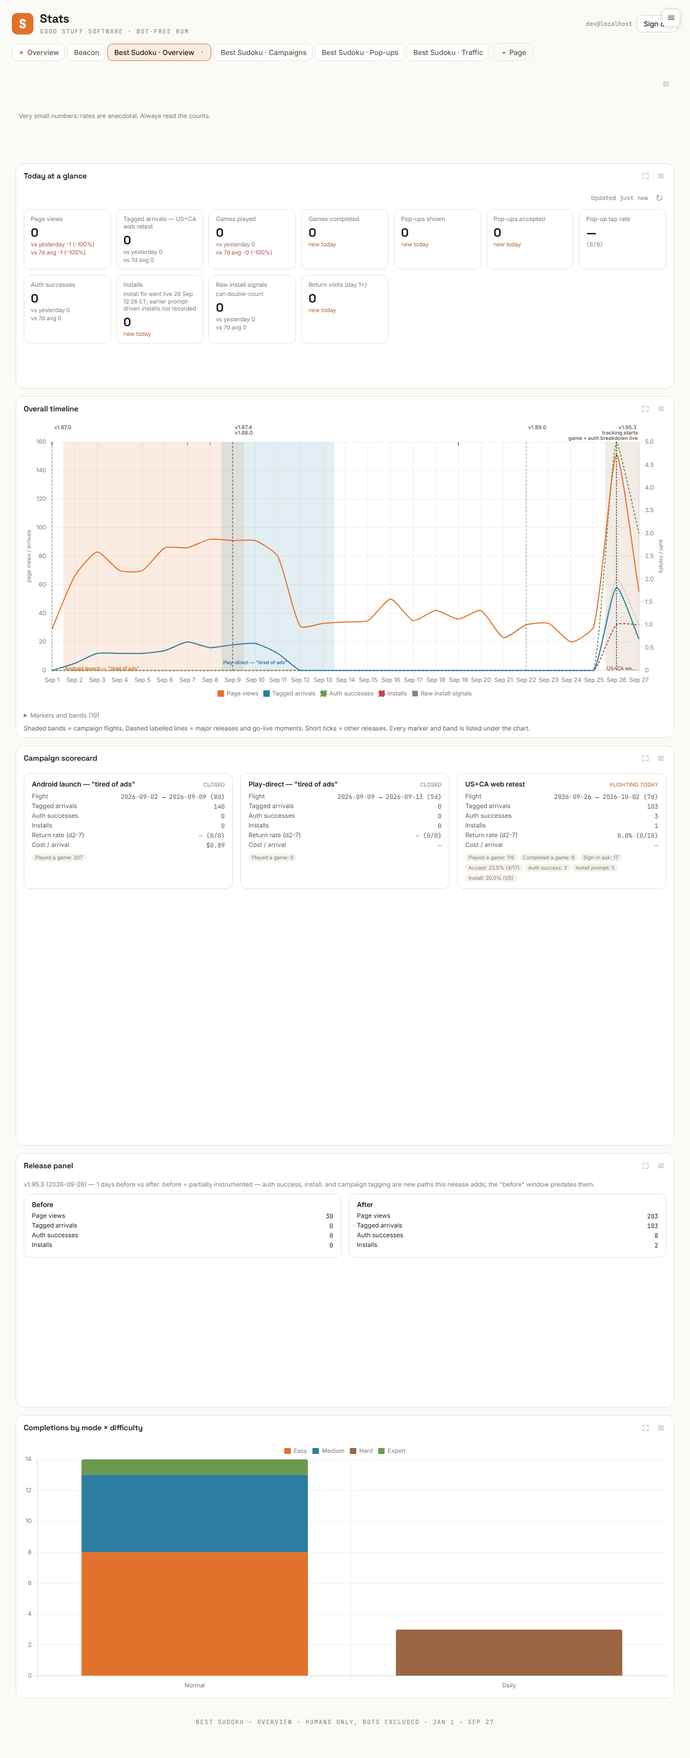
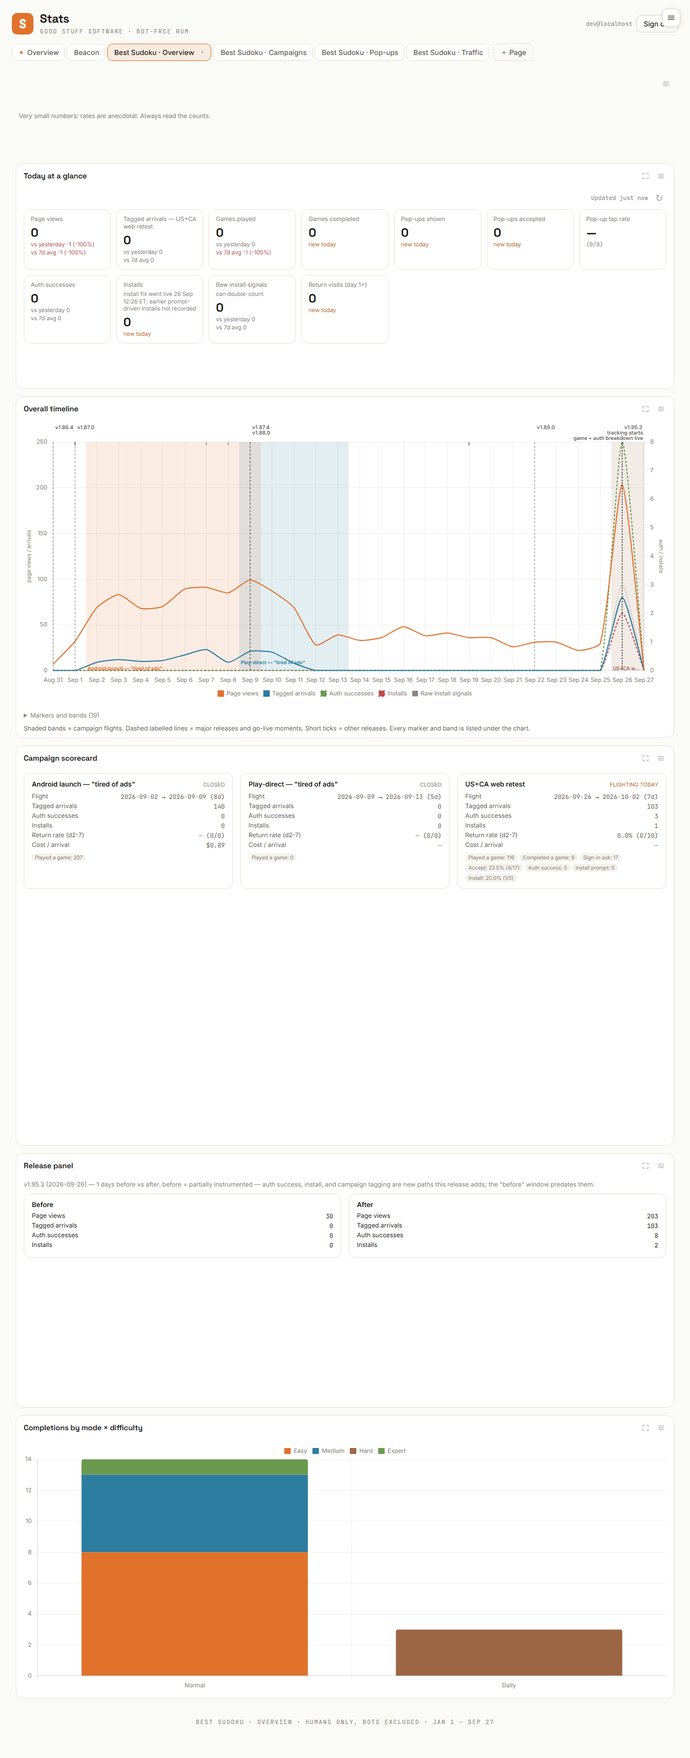
feat(geo): add a US-Eastern date axis; align editor checkboxes
- New geo dimension 'dateEt' ("Date (trend, ET)"). It buckets each row by
  its ET calendar day in SQL (etTime.ts etDateSql): the same DST rule as
  etDateFast, with the EDT windows for 2024-2040 inlined as integer
  constants. Like 'date', it is a trend bucket: the sole dimension,
  zero-filled over the range's ET days, never a ring or a filter (a shared
  isDateDim helper covers both). The Overall timeline (and the v9 swap) use
  it, so its days line up with its ET-dated flight bands and go-live
  markers. Tested against etDateFast and etDateFromMs at the ET/UTC day
  edge (EDT and EST) and hour by hour across both 2026 DST transition days.
- Chart editor: checkboxes keep their own size, directly left of the label
  text, with the whole label as the click target. The generic
  '.field input { width: 100% }' rule had stretched them.

diff --git a/src/lib/charts.ts b/src/lib/charts.ts
@@ -1,7 +1,8 @@
 import type { ChartConfiguration } from 'chart.js'
 import type { Widget, StatsResponse, StatsRow, Metric } from '../types'
 import { COUNTRY_NAMES } from './catalog'
-import { ringDims } from './rings'
+import { ringDims, isDateDim } from './rings'
+import { etDateFast } from './etTime'
 import { TRACKING_ACTIVATION_DATE_ET, PLAY_TRACKING_MARKER_LABEL, POPUPS, POPUP_FAMILY_ORDER, POPUP_OUTCOME_ORDER, POPUP_OUTCOME_LABELS } from './popupEvents'
 import { GAME_COMPLETE_MODES, GAME_COMPLETE_DIFFICULTIES, CAMPAIGNS } from './campaigns'
 import { isMobileViewport } from './responsive'
@@ -435,7 +436,7 @@ function wrapText(ctx: any, text: string, maxW: number): string[] {
 
 /** True for a line/area chart on the beacon's date axis that draws its own series list. */
 export function hasLineSeries(widget: Pick<Widget, 'type' | 'dataset' | 'dimension' | 'series'>): boolean {
-  return (widget.type === 'line' || widget.type === 'area') && widget.dataset === 'geo' && widget.dimension === 'date' && !!widget.series?.length
+  return (widget.type === 'line' || widget.type === 'area') && widget.dataset === 'geo' && isDateDim(widget.dimension) && !!widget.series?.length
 }
 
 /** A line chart's series (Widget.series): each one is its own date query, filtered on a geo
@@ -445,8 +446,9 @@ export function buildSeriesLineConfig(widget: Widget, responses: StatsResponse[]
   const series = widget.series ?? []
   if (!series.length || responses.length !== series.length) return null
   const first = responses[0]
-  const allDays = dayBucketsInRange(first.meta.since, first.meta.until) ?? [...new Set(responses.flatMap((r) => r.rows.map((x) => x.key.date ?? '')))].sort()
-  const byDay = responses.map((r) => new Map(r.rows.map((x) => [x.key.date ?? '', metricValue(x, widget.metric)])))
+  const dim = widget.dimension
+  const allDays = dayBucketsInRange(first.meta.since, first.meta.until, dim === 'dateEt') ?? [...new Set(responses.flatMap((r) => r.rows.map((x) => x.key[dim] ?? '')))].sort()
+  const byDay = responses.map((r) => new Map(r.rows.map((x) => [x.key[dim] ?? '', metricValue(x, widget.metric)])))
   // The axis starts at the first day any series has data (a long range, e.g. "since January",
   // would otherwise open with months of flat zeros); every later empty day still plots as 0.
   const firstData = allDays.findIndex((d) => byDay.some((m) => (m.get(d) ?? 0) > 0))
@@ -622,7 +624,7 @@ export function formatKey(dimension: string, value: string): string {
   if (dimension === 'popupFamily') return POPUPS.find((p) => p.id === value)?.label ?? value
   if (dimension === 'popupOutcome') return POPUP_OUTCOME_LABELS[value] ?? value
   if (dimension === 'campaignFlight') return CAMPAIGNS.find((c) => c.id === value)?.label ?? value
-  if (dimension === 'date') {
+  if (dimension === 'date' || dimension === 'dateEt') {
     // YYYY-MM-DD → "Jun 24"
     const d = new Date(value + 'T00:00:00Z')
     return d.toLocaleDateString('en-US', { month: 'short', day: 'numeric', timeZone: 'UTC' })
@@ -658,12 +660,14 @@ const noLegend = { legend: { display: false } }
 // the span is implausibly huge — a malformed or enormous range shouldn't allocate thousands of
 // empty buckets, and callers fall back to the pre-fill behavior in that case.
 const MAX_FILL_DAYS = 400
-function dayBucketsInRange(since: string, until: string): string[] | null {
-  const s = new Date(since).getTime()
-  const u = new Date(until).getTime()
-  if (!isFinite(s) || !isFinite(u)) return null
-  const startDay = Date.UTC(new Date(s).getUTCFullYear(), new Date(s).getUTCMonth(), new Date(s).getUTCDate())
-  const endDay = Date.UTC(new Date(u).getUTCFullYear(), new Date(u).getUTCMonth(), new Date(u).getUTCDate())
+function dayBucketsInRange(since: string, until: string, et = false): string[] | null {
+  const s0 = new Date(since).getTime()
+  const u0 = new Date(until).getTime()
+  if (!isFinite(s0) || !isFinite(u0)) return null
+  // An ET-day axis ('dateEt') spans the ET days of since/until; a UTC one their UTC days.
+  const dayOf = (ms: number) => (et ? etDateFast(ms) : new Date(ms).toISOString().slice(0, 10))
+  const startDay = Date.parse(dayOf(s0) + 'T00:00:00Z')
+  const endDay = Date.parse(dayOf(u0) + 'T00:00:00Z')
   if (endDay < startDay) return null
   const dayCount = Math.round((endDay - startDay) / 86_400_000) + 1
   if (dayCount > MAX_FILL_DAYS) return null
@@ -679,11 +683,11 @@ function dayBucketsInRange(since: string, until: string): string[] | null {
 // have more points than the response has rows, and indexing the raw rows would drill into the
 // wrong day (or miss entirely).
 export function seriesRows(dim: string, resp: StatsResponse): StatsRow[] {
-  if (dim !== 'date') return resp.rows
-  const buckets = dayBucketsInRange(resp.meta.since, resp.meta.until)
+  if (!isDateDim(dim)) return resp.rows
+  const buckets = dayBucketsInRange(resp.meta.since, resp.meta.until, dim === 'dateEt')
   if (!buckets) return resp.rows
-  const byDay = new Map(resp.rows.map((r) => [r.key.date ?? '', r]))
-  return buckets.map((day) => byDay.get(day) ?? { key: { date: day }, pageviews: 0, visits: 0 })
+  const byDay = new Map(resp.rows.map((r) => [r.key[dim] ?? '', r]))
+  return buckets.map((day) => byDay.get(day) ?? { key: { [dim]: day }, pageviews: 0, visits: 0 })
 }
 
 // Known value order for a dimension's values, wherever one reads better than count order: the
@@ -899,7 +903,7 @@ export function buildChartConfig(widget: Widget, resp: StatsResponse, seriesResp
     // with a corner watermark instead — see activationMarkerIndex above).
     const isPopupTrend = widget.dataset === 'popup' && dim === 'date'
     const boundary = isPopupTrend ? (TRACKING_ACTIVATION_DATE_ET ? activationMarkerIndex(rows, TRACKING_ACTIVATION_DATE_ET) : rows.length) : -1
-    const overlay = dim === 'date' ? overlayItems(widgetOverlayOptions(widget)) : []
+    const overlay = isDateDim(dim) ? overlayItems(widgetOverlayOptions(widget)) : []
     const muted = isDark() ? 'rgba(231,226,215,0.35)' : 'rgba(26,23,21,0.28)'
     const mutedFill = isDark() ? 'rgba(231,226,215,0.08)' : 'rgba(26,23,21,0.06)'
 
@@ -943,7 +947,7 @@ export function buildChartConfig(widget: Widget, resp: StatsResponse, seriesResp
       ...((isPopupTrend || overlay.length) && {
         plugins: [
           ...(isPopupTrend ? [TRACKING_ACTIVATION_DATE_ET ? activationMarkerPlugin(boundary) : notYetTrackedWatermarkPlugin()] : []),
-          ...(overlay.length ? [timelineOverlayPlugin(rows.map((r) => r.key.date ?? ''), overlay, isMobileViewport())] : []),
+          ...(overlay.length ? [timelineOverlayPlugin(rows.map((r) => r.key[dim] ?? ''), overlay, isMobileViewport())] : []),
         ],
       }),
     } as ChartConfiguration

diff --git a/functions/api/geo.ts b/functions/api/geo.ts
@@ -15,6 +15,8 @@
 import { popupExcludeClause, pathFamilySqlCase, popupDimSqlCase, popupDimPrefilter } from '../../src/lib/popupEvents'
 import { gameDimSqlCase, gameDimPrefilter, campaignFlightSqlCase, campaignFlightPrefilter, arrivalSqlCase, keyEventSqlCase, applyExclusions } from '../../src/lib/campaigns'
 import { excludeOwnClause as sharedExcludeOwnClause, selfReferralClause as sharedSelfReferralClause } from '../../src/lib/ownExclusion'
+import { etDateSql } from '../../src/lib/etTime'
+import { isDateDim } from '../../src/lib/rings'
 import { buildCacheKeyUrl, cachedJson, ttlSecondsFor, type CacheLike } from '../_lib/edgeCache'
 
 interface Env {
@@ -42,6 +44,8 @@ interface Env {
 // blank-labeled the same way they always were.
 export function breakdownColumnExpr(dim: string, emptyLabel: string): string {
   if (dim === 'date') return "date(ts/1000,'unixepoch')"
+  // US-Eastern calendar day (DST-aware), matching how the Best Sudoku code buckets ET days.
+  if (dim === 'dateEt') return etDateSql()
   if (dim === 'pathFamily') return pathFamilySqlCase()
   // Pop-up / completion / campaign-flight dims: CASE expressions over path (and ts/campaign),
   // built only from lib/popupEvents.ts + lib/campaigns.ts constants (never request input); see
@@ -118,7 +122,7 @@ export function buildMergedRingSql(cols: string[], whereSql: string, groupBy: st
 // every query that touched it the moment someone charted it. Add it once the migration runs).
 export const GEO_DIMS = new Set([
   'country', 'region', 'city', 'postal', 'continent', 'timezone', 'colo', 'org',
-  'referrer', 'refpath', 'path', 'site', 'device', 'browser', 'os', 'lang', 'visitor', 'date',
+  'referrer', 'refpath', 'path', 'site', 'device', 'browser', 'os', 'lang', 'visitor', 'date', 'dateEt',
   'campaign', 'source', 'medium', // utm campaign tags
   'screenw', 'screenwBucket', // viewport width — raw pixel value, and bucketed (see breakdownColumnExpr)
   'pathFamily', // groups event-beacon paths (popup/install/return/game-complete/…) vs. 'page' — see popupEvents.ts
@@ -137,12 +141,12 @@ export const GEO_DIMS = new Set([
 // equality instead of a bare column reference. 'date' alone stays fully out of filtering too:
 // a click on a date bucket becomes a day RANGE client-side (lib/drill.ts), never an equality
 // constraint, so nothing ever sends it as one.
-export const DERIVED_ONLY_DIMS = new Set(['date', 'screenwBucket', 'pathFamily', 'popupFamily', 'popupOutcome', 'gameMode', 'gameDifficulty', 'campaignFlight', 'arrival', 'keyEvent'])
+export const DERIVED_ONLY_DIMS = new Set(['date', 'dateEt', 'screenwBucket', 'pathFamily', 'popupFamily', 'popupOutcome', 'gameMode', 'gameDifficulty', 'campaignFlight', 'arrival', 'keyEvent'])
 // Of those, only 'date' stays out of multi-dimension (ring / breakdown-bar) queries: every other
 // derived dim groups like a column (its CASE runs per row in the inner SELECT, and
 // ringBlankExclusion drops its blank rows). A date axis is a trend, which lib/rings.ts
 // queryDims already keeps to single-dim charts.
-export const RING_EXCLUDED_DIMS = new Set(['date'])
+export const RING_EXCLUDED_DIMS = new Set(['date', 'dateEt'])
 
 // Dimensions that describe EVENT-beacon rows only. A chart grouping by one (or a drill filtering
 // on one) cannot also apply the standing event-beacon exclusion (it would remove every row the
@@ -232,7 +236,7 @@ export const onRequestPost: PagesFunction<Env> = async (ctx) => {
   // never arrives as one — excluding it is defense in depth, not something a real client sends.
   const constraints: { field: string; value: string }[] = Array.isArray(body.constraints)
     ? (body.constraints as any[])
-        .filter((c) => c && GEO_DIMS.has(c.field) && c.field !== 'date' && typeof c.value === 'string')
+        .filter((c) => c && GEO_DIMS.has(c.field) && !isDateDim(c.field) && typeof c.value === 'string')
         .map((c) => ({ field: String(c.field), value: String(c.value) }))
     : []
   const drillClause = (w: string[], b: any[]) => {
@@ -455,7 +459,7 @@ export const onRequestPost: PagesFunction<Env> = async (ctx) => {
 
   const whereSql = where.join(' AND ')
   // Tiebreak on k (see buildMergedBreakdownSql) so which rows LIMIT keeps is deterministic.
-  const orderBy = dim === 'date' ? 'k ASC' : 'c DESC, k ASC'
+  const orderBy = isDateDim(dim) ? 'k ASC' : 'c DESC, k ASC'
   // One statement in place of the old total-COUNT(*) + grouped-COUNT(*) pair — see the
   // buildMergedBreakdownSql doc comment for why SUM(c) OVER () gives the same grand total.
   const sql = buildMergedBreakdownSql(col, whereSql, orderBy)

diff --git a/src/components/ChartEditor.vue b/src/components/ChartEditor.vue
@@ -18,7 +18,7 @@ import {
   CAMPAIGN_OPTIONS,
   BAR_MODES,
 } from '../lib/catalog'
-import { ringDims, RING_SOFT_CAP } from '../lib/rings'
+import { ringDims, RING_SOFT_CAP, isDateDim } from '../lib/rings'
 import { noteOptions, defaultNoteIdsForScope, type NoteScope } from '../lib/notes'
 
 const props = defineProps<{ widget: Widget; isNew: boolean }>()
@@ -172,7 +172,7 @@ function ringOptionsFor(idx: number) {
   const used = new Set(ringDims(draft))
   const current = draft.rings?.[idx]
   if (current) used.delete(current) // keep this ring's own current value selectable
-  return dimOptions.value.filter((d) => d.key !== 'date' && !used.has(d.key))
+  return dimOptions.value.filter((d) => !isDateDim(d.key) && !used.has(d.key))
 }
 const canAddRing = computed(() => ringOptionsFor((draft.rings ?? []).length).length > 0)
 const totalRingCount = computed(() => ringDims(draft).length)
@@ -198,9 +198,9 @@ function moveRing(idx: number, dir: -1 | 1) {
 
 // ── Line/area charts on a date axis: overlay toggles, and (beacon data) a series list — each
 // series its own date query narrowed by one filter, on the left or right axis. ─────────────────
-const isDateLine = computed(() => (draft.type === 'line' || draft.type === 'area') && draft.dimension === 'date')
+const isDateLine = computed(() => (draft.type === 'line' || draft.type === 'area') && isDateDim(draft.dimension))
 const canUseSeries = computed(() => isDateLine.value && isGeo.value)
-const SERIES_FIELDS = GEO_DIMENSIONS.filter((d) => d.key !== 'date')
+const SERIES_FIELDS = GEO_DIMENSIONS.filter((d) => !isDateDim(d.key))
 function addSeries() {
   const list: LineSeries[] = (draft.series ??= [])
   list.push({ label: `Series ${list.length + 1}`, axis: 'left', style: 'solid' })
@@ -290,7 +290,7 @@ function save() {
   // blanks/duplicates/'date') and clear them entirely otherwise.
   if (draft.type === 'nestedDoughnut' && draft.breakdown) {
     const rings = (draft.rings ?? []).filter(
-      (r, i, arr) => r && r !== 'date' && r !== draft.dimension && r !== draft.breakdown && arr.indexOf(r) === i,
+      (r, i, arr) => r && !isDateDim(r) && r !== draft.dimension && r !== draft.breakdown && arr.indexOf(r) === i,
     )
     draft.rings = rings.length ? rings : undefined
   } else {
@@ -634,6 +634,18 @@ h2 {
 .field textarea {
   font-family: inherit;
   resize: vertical;
+}
+/* A checkbox keeps its own size, directly left of its label text (the full-width rule above
+   stretched it and pushed the text far to the right); the whole label stays the click target. */
+.field input[type='checkbox'] {
+  width: auto;
+  flex: none;
+  margin: 0;
+}
+.field.check label,
+.campaign-row {
+  justify-content: flex-start;
+  text-align: left;
 }
 .campaign-list {
   display: flex;

diff --git a/functions/api/geo.derivedDims.test.ts b/functions/api/geo.derivedDims.test.ts
@@ -17,9 +17,10 @@ import {
   sqlLit,
   sqlInt,
   trackingActivationStartMs,
+  etDateFromMs,
 } from '../../src/lib/popupEvents'
 import { CAMPAIGNS, etMidnightUtcMs, gameDimOf, keyEventOf, arrivalOf } from '../../src/lib/campaigns'
-import { etWallTimeMs } from '../../src/lib/etTime'
+import { etWallTimeMs, etDateFast } from '../../src/lib/etTime'
 
 const noopCache: CacheLike = { match: async () => undefined, put: async () => {} }
 
@@ -190,6 +191,36 @@ describe('arrival / keyEvent SQL (the Overall timeline series filters)', () => {
     expect(got).toEqual(['tagged', 'untagged', 'untagged', ''])
     expect(arrivalOf('new', android.id)).toBe('tagged')
     expect(arrivalOf('returning', android.id)).toBe('')
+  })
+})
+
+describe("dateEt — US-Eastern day buckets in SQL, matching the BSK code's own ET days", () => {
+  const Z = (iso: string) => Date.parse(iso)
+  it('splits at ET midnight, not UTC midnight (EDT: 04:00Z)', () => {
+    const rows: Row[] = ['2026-09-27T03:59:59.999Z', '2026-09-27T04:00:00.000Z', '2026-09-26T23:30:00Z', '2026-09-27T00:30:00Z'].map((iso) => ({ ts: Z(iso) }))
+    expect(exprValues('dateEt', rows)).toEqual(['2026-09-26', '2026-09-27', '2026-09-26', '2026-09-26'])
+  })
+  it('splits at 05:00Z in winter (EST)', () => {
+    const rows: Row[] = ['2026-12-15T04:59:59Z', '2026-12-15T05:00:00Z'].map((iso) => ({ ts: Z(iso) }))
+    expect(exprValues('dateEt', rows)).toEqual(['2026-12-14', '2026-12-15'])
+  })
+  it('agrees with etDateFast and etDateFromMs hour by hour across both 2026 DST transition days', () => {
+    const rows: Row[] = []
+    for (const day of ['2026-03-07T00:00:00Z', '2026-10-31T00:00:00Z']) {
+      for (let h = 0; h < 72; h++) rows.push({ ts: Z(day) + h * 3_600_000 + 1234 })
+    }
+    const got = exprValues('dateEt', rows)
+    expect(got).toEqual(rows.map((r) => etDateFast(r.ts)))
+    expect(got).toEqual(rows.map((r) => etDateFromMs(r.ts)))
+    // 2026-11-01 lasts 25 hours in ET (04:00Z to 05:00Z the next day), 2026-03-08 only 23.
+    expect(got.filter((d) => d === '2026-11-01')).toHaveLength(25)
+    expect(got.filter((d) => d === '2026-03-08')).toHaveLength(23)
+  })
+  it('dateEt is a trend bucket: never a ring and never a filter', async () => {
+    expect(RING_EXCLUDED_DIMS.has('dateEt')).toBe(true)
+    insert({ ts: LIVE, path: '/' })
+    const { calls } = await post({ dimension: 'device', constraints: [{ field: 'dateEt', value: '2026-09-26' }], ...range })
+    expect(calls[0].binds).not.toContain('2026-09-26')
   })
 })
 

diff --git a/src/components/ChartCard.vue b/src/components/ChartCard.vue
@@ -6,6 +6,7 @@ import { sitesLoaded } from '../sitesStore'
 import { checkSessionExpired, isAuthError, isNetworkError } from '../session'
 import { buildChartConfig, formatKey, metricValue, nestedDoughnutClickValue, seriesRows, hasLineSeries, widgetHasOverlay, widgetOverlayOptions } from '../lib/charts'
 import { overlayItems, itemsInRange } from '../lib/timelineOverlay'
+import { isDateDim } from '../lib/rings'
 import { rangeLabel } from '../lib/range'
 import { isSiteDim, semanticKey } from '../lib/drill'
 import { isMobileViewport } from '../lib/responsive'
@@ -70,7 +71,7 @@ const needsChartHeight = computed(() => {
 // A breakdown bar (legend + rotated axis labels) and a line chart with series or overlays
 // (legend, marker labels, the markers list, captions) don't fit Dashboard.vue's fixed phone chart
 // height: on a phone these cards size to their content, with a fixed-height plot area instead.
-const tallOnPhone = computed(() => props.widget.type === 'breakdownBar' || hasLineSeries(props.widget) || (props.widget.dimension === 'date' && widgetHasOverlay(props.widget)))
+const tallOnPhone = computed(() => props.widget.type === 'breakdownBar' || hasLineSeries(props.widget) || (isDateDim(props.widget.dimension) && widgetHasOverlay(props.widget)))
 
 // Double-tap-to-zoom (owner: "allow a double-tap on the chart to zoom if that's easy") — an
 // extra shortcut alongside the always-visible zoom button (see below), not a substitute for
@@ -326,7 +327,7 @@ onMounted(load)
 // range — listed under the chart in a collapsed disclosure, so each marker's and band's date,
 // name and note are reachable by keyboard and touch, not only by hovering the canvas.
 const overlayList = computed(() => {
-  if (props.widget.dimension !== 'date' || !widgetHasOverlay(props.widget) || !data.value) return []
+  if (!isDateDim(props.widget.dimension) || !widgetHasOverlay(props.widget) || !data.value) return []
   const first = String(data.value.meta.since).slice(0, 10)
   const last = String(data.value.meta.until).slice(0, 10)
   return itemsInRange(overlayItems(widgetOverlayOptions(props.widget)), first, last).map((it) => ({

diff --git a/src/lib/timelineOverlay.test.ts b/src/lib/timelineOverlay.test.ts
@@ -105,14 +105,15 @@ describe('overlay items', () => {
 
 describe('series line chart (the Overall timeline as a standard line chart)', () => {
   const resp = (rows: [string, number][]): StatsResponse => ({
-    rows: rows.map(([date, c]) => ({ key: { date }, pageviews: c, visits: c })),
+    rows: rows.map(([date, c]) => ({ key: { dateEt: date }, pageviews: c, visits: c })),
     totals: { pageviews: 0, visits: 0 },
-    meta: { site: 'all', host: null, since: '2026-09-24', until: '2026-09-26', dimensions: ['date'], metric: 'pageviews' },
+    // ET days: noon UTC on both ends sits inside the same ET day
+    meta: { site: 'all', host: null, since: '2026-09-24T12:00:00Z', until: '2026-09-26T12:00:00Z', dimensions: ['dateEt'], metric: 'pageviews' },
   })
   const w = timelineWidget({ x: 0, y: 0, w: 12, h: 12 })
 
   it('is a standard line widget with series, overlays and the known-traffic filter on', () => {
-    expect(w).toMatchObject({ type: 'line', dataset: 'geo', dimension: 'date', markers: 'releases', goLiveMarkers: true, flightBands: true, excludeKnownTraffic: true })
+    expect(w).toMatchObject({ type: 'line', dataset: 'geo', dimension: 'dateEt', markers: 'releases', goLiveMarkers: true, flightBands: true, excludeKnownTraffic: true })
     expect(hasLineSeries(w)).toBe(true)
     expect(w.series!.map((s) => s.label)).toEqual(['Page views', 'Tagged arrivals', 'Auth successes', 'Installs', 'Raw install signals'])
   })

diff --git a/src/lib/etTime.ts b/src/lib/etTime.ts
@@ -31,6 +31,21 @@ export function etOffsetHours(ms: number): -4 | -5 {
   return ms >= start && ms < end ? -4 : -5
 }
 
+/** SQL expression giving a row's ET calendar date (YYYY-MM-DD) from its `ts` column (UTC ms) —
+ * the SQL twin of etDateFast, with the same US DST rule: EDT (-4 h) inside each year's
+ * [second Sunday of March 07:00Z, first Sunday of November 06:00Z), EST (-5 h) otherwise. The
+ * EDT windows are computed here for `fromYear`..`toYear` and inlined as integers (constants
+ * only, never request input); a row outside those years falls back to EST. Used by the
+ * geo 'dateEt' dimension (functions/api/geo.ts). */
+export function etDateSql(fromYear = 2024, toYear = 2040): string {
+  const windows: string[] = []
+  for (let y = fromYear; y <= toYear; y++) {
+    const [start, end] = dstBounds(y)
+    windows.push(`(ts >= ${start} AND ts < ${end})`)
+  }
+  return `date((ts + CASE WHEN ${windows.join(' OR ')} THEN ${-4 * HOUR} ELSE ${-5 * HOUR} END) / 1000, 'unixepoch')`
+}
+
 const pad = (n: number) => (n < 10 ? `0${n}` : String(n))
 function ymd(d: Date): string {
   return `${d.getUTCFullYear()}-${pad(d.getUTCMonth() + 1)}-${pad(d.getUTCDate())}`

diff --git a/src/lib/rings.ts b/src/lib/rings.ts
@@ -23,11 +23,19 @@ export function ringDims(widget: Pick<Widget, 'dimension' | 'breakdown' | 'rings
   return out
 }
 
+// The date-axis dimensions: 'date' (UTC day) and 'dateEt' (US-Eastern day, geo only — see
+// functions/api/geo.ts). Both are trend buckets: a chart's sole dimension, zero-filled, never a
+// ring or a filter.
+export const DATE_DIMS: ReadonlySet<string> = new Set(['date', 'dateEt'])
+export function isDateDim(dim: string | undefined | null): boolean {
+  return !!dim && DATE_DIMS.has(dim)
+}
+
 // The dims to actually send to a stats query: same as ringDims(), except 'date' is dropped
 // whenever it isn't the widget's ONLY dimension. 'date' is a derived time bucket (see
 // functions/api/geo.ts and stats.ts), not a real equality-groupable column, so it can only
 // ever be a chart's sole dimension (a trend series) — never one ring among several.
 export function queryDims(widget: Pick<Widget, 'dimension' | 'breakdown' | 'rings'>): string[] {
   const dims = ringDims(widget)
-  return dims.length > 1 ? dims.filter((d) => d !== 'date') : dims
+  return dims.length > 1 ? dims.filter((d) => !isDateDim(d)) : dims
 }

diff --git a/src/lib/defaults.test.ts b/src/lib/defaults.test.ts
@@ -557,7 +557,7 @@ describe('normalizeConfig — v9 migration (Overview timeline → standard line 
     const ov = norm.pages.find((p) => p.id === 'bsk-overview')!
     expect(ov.widgets.map((w) => w.id)).toEqual(['ow-kpis', 'ow-timeline', 'mine'])
     const tl = ov.widgets[1]
-    expect(tl).toMatchObject({ type: 'line', dataset: 'geo', dimension: 'date', title: 'My timeline', x: 1, y: 11, w: 10, h: 13, isDefault: true, markers: 'releases', goLiveMarkers: true, flightBands: true })
+    expect(tl).toMatchObject({ type: 'line', dataset: 'geo', dimension: 'dateEt', title: 'My timeline', x: 1, y: 11, w: 10, h: 13, isDefault: true, markers: 'releases', goLiveMarkers: true, flightBands: true })
     expect(tl.view).toBeUndefined()
     expect(tl.series?.length).toBe(5)
     expect(tl.notes).toEqual(['overview-timeline-caption'])

diff --git a/src/lib/catalog.ts b/src/lib/catalog.ts
@@ -102,6 +102,7 @@ export const GEO_DIMENSIONS: { key: string; label: string }[] = [
   { key: 'arrival', label: 'Arrival (first visit): tagged / untagged' },
   { key: 'keyEvent', label: 'Key event (sign-in / install / raw install / completion)' },
   { key: 'date', label: 'Date (trend)' },
+  { key: 'dateEt', label: 'Date (trend, ET)' },
 ]
 
 // Client-side mirror of the server's site registry (the Function has its own copy

diff --git a/src/lib/defaults.ts b/src/lib/defaults.ts
@@ -475,7 +475,8 @@ export function timelineWidget(geom: { x: number; y: number; w: number; h: numbe
     title,
     type: 'line',
     dataset: 'geo',
-    dimension: 'date',
+    // US-Eastern days, the same days its flight bands and go-live markers are dated in.
+    dimension: 'dateEt',
     metric: 'pageviews',
     limit: 400,
     markers: 'releases',

diff --git a/CHANGELOG.md b/CHANGELOG.md
@@ -7,6 +7,9 @@ All notable changes to **gss-stats** are documented here. The format follows
 ## [Unreleased]
 
 ### Added
+- **A US-Eastern date axis for beacon trend charts.** "Date (trend, ET)" buckets by Eastern day,
+  daylight saving included; the Overall timeline uses it, so its days line up with its flight
+  bands and go-live markers.
 - **Arrival and key-event dimensions for beacon charts,** and a per-chart option to hide known
   test and household traffic.
 - **A breakdown bar chart for any two dimensions.** Put one dimension on the axis and another
@@ -51,6 +54,7 @@ All notable changes to **gss-stats** are documented here. The format follows
   only the top of the axis showed.
 - **The sign-in eligibility chart has a short title** that fits its card.
 - **Timeline marker labels no longer collide,** on desktop or phone.
+- **Chart editor checkboxes sit right next to their labels,** and clicking the label toggles them.
 
 ## [0.8.0] — 2026-09-26
 
